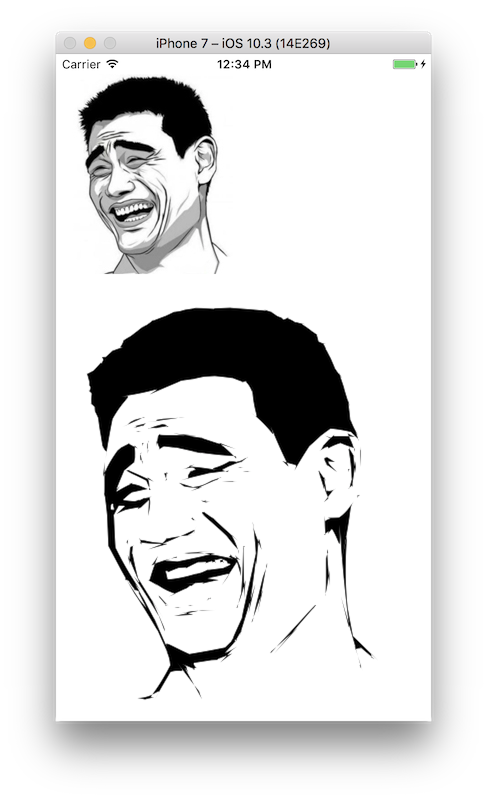
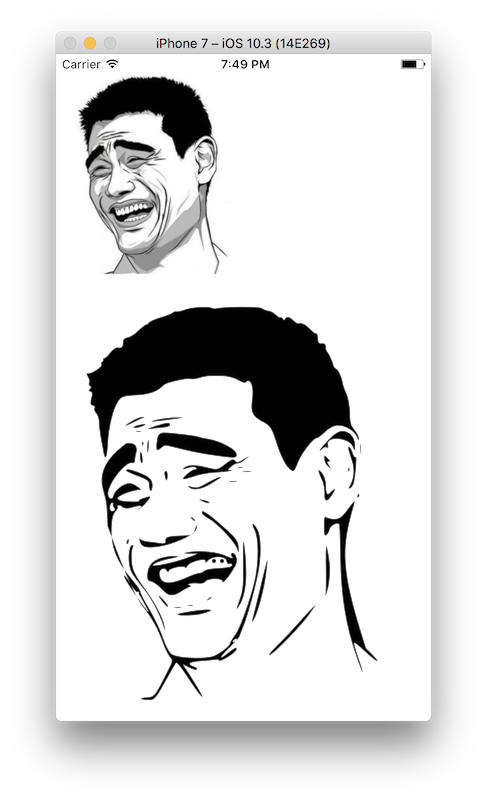
fixed rendering bug

diff --git a/Potrace/ViewController.swift b/Potrace/ViewController.swift
@@ -24,35 +24,27 @@ class ViewController: UIViewController {
             
             potrace.process()
             
+            print(potrace.getSVG())
+            
             let bezier = potrace.getBezierPath(scale: 2.0)
-            let newImage = shapeImageWithCGPath(path: bezier.cgPath,
-                                                size: curves.frame.size,
-                                                fillColor: nil,
-                                                strokeColor: UIColor.black)
+            let newImage = shapeImageWithCGPath(path: bezier, size: curves.frame.size)
             
             
             curves.image = newImage
         }
     }
 
-    func shapeImageWithCGPath(path: CGPath, size: CGSize, fillColor: UIColor?, strokeColor: UIColor?, strokeWidth: CGFloat = 0.0) -> UIImage! {
-        
-        UIGraphicsBeginImageContext(size)
-        let context = UIGraphicsGetCurrentContext()
+    func shapeImageWithCGPath(path: UIBezierPath, size: CGSize) -> UIImage {
         var image = UIImage()
-        if let context  = context {
+        UIGraphicsBeginImageContext(size)
+        if let context = UIGraphicsGetCurrentContext() {
             context.saveGState()
-            context.addPath(path)
-            if strokeColor != nil {
-                strokeColor!.setStroke()
-                context.setLineWidth(strokeWidth)
-            } else { UIColor.clear.setStroke() }
-            fillColor?.setFill()
-            context.drawPath(using: .fillStroke)
+            path.fill()
             image = UIGraphicsGetImageFromCurrentImageContext()!
             context.restoreGState()
             UIGraphicsEndImageContext()
         }
+        
         return image
     }
 

diff --git a/Potrace/Potrace.swift b/Potrace/Potrace.swift
@@ -1319,9 +1319,9 @@ final class Potrace {
         func path(curve: Curve, bezierPath: UIBezierPath) {
         
             func bezier(i: Int) {
-                bezierPath.addCurve(to: CGPoint(x: (curve.c[i * 3 + 0].x * size), y: (curve.c[i * 3 + 0].y * size)),
-                                    controlPoint1: CGPoint(x: (curve.c[i * 3 + 1].x * size), y: (curve.c[i * 3 + 1].y * size)),
-                                    controlPoint2: CGPoint(x: (curve.c[i * 3 + 2].x * size), y: (curve.c[i * 3 + 2].y * size)))
+                bezierPath.addCurve(to: CGPoint(x: (curve.c[i * 3 + 2].x * size), y: (curve.c[i * 3 + 2].y * size)),
+                                    controlPoint1: CGPoint(x: (curve.c[i * 3 + 0].x * size), y: (curve.c[i * 3 + 0].y * size)),
+                                    controlPoint2: CGPoint(x: (curve.c[i * 3 + 1].x * size), y: (curve.c[i * 3 + 1].y * size)))
             }
 
             func segment(i: Int) {
@@ -1342,8 +1342,6 @@ final class Potrace {
                     segment(i: i)
                 }
             }
-            
-            bezierPath.close()
         }
         
         let len = pathlist.count
